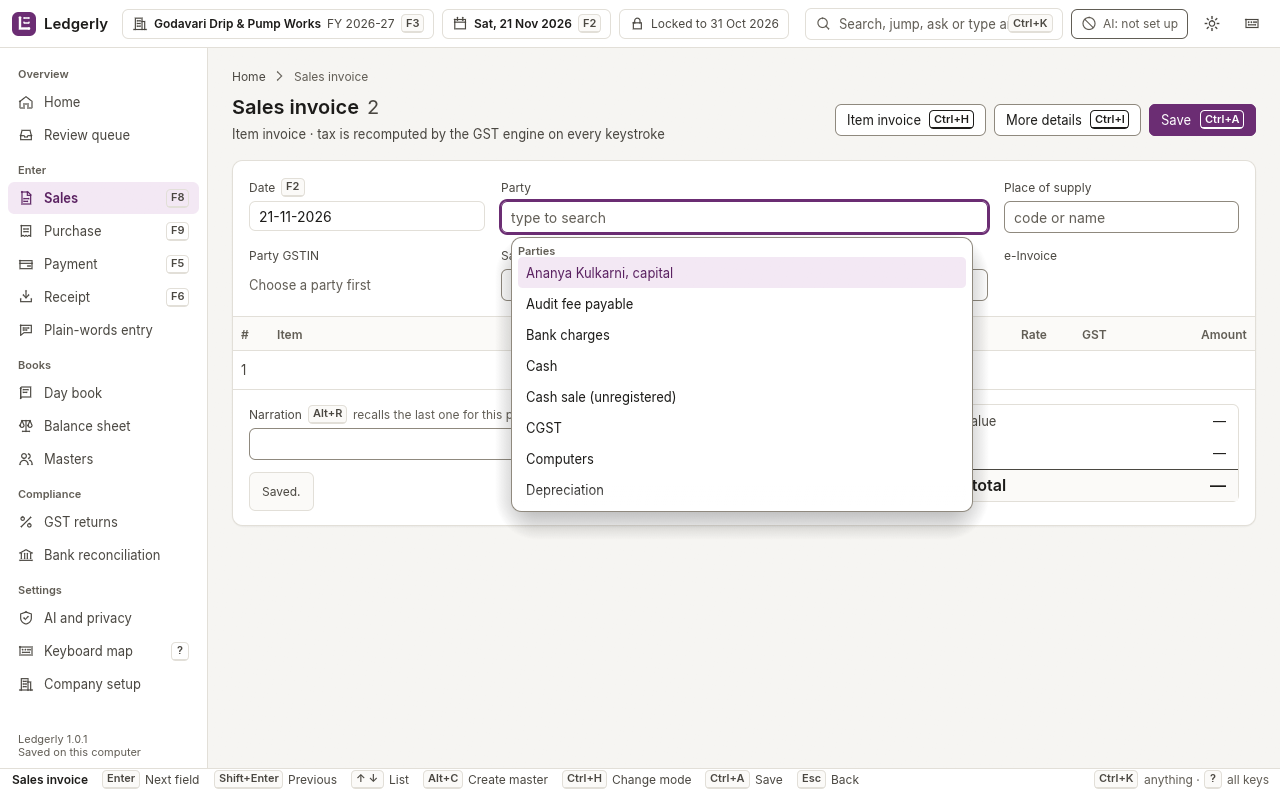
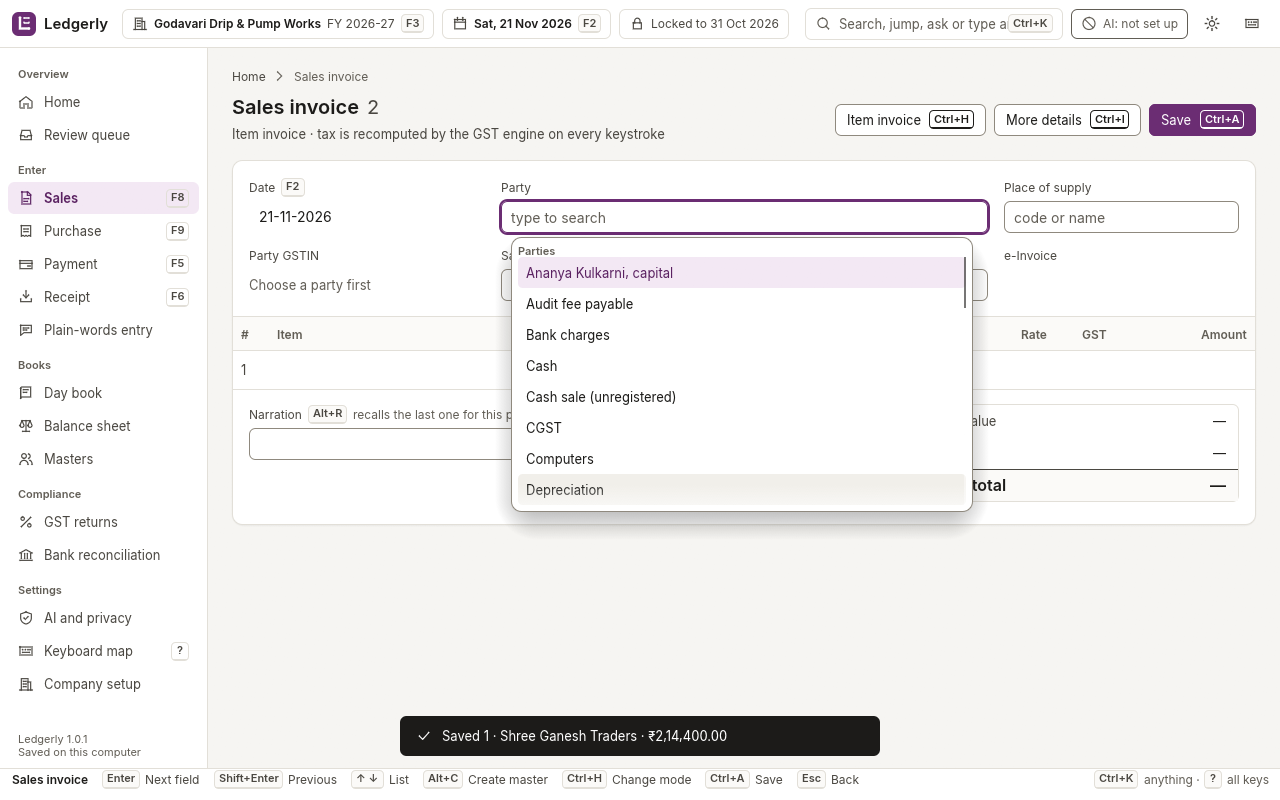
Clippy and doc gates clean; saved capture waits only as long as the toast shows it

Changed region(s): [[0.3125, 0.875, 0.6875, 0.9688], [0.1875, 0.5938, 0.25, 0.625]]

diff --git a/crates/ledgerly-app/src/screens/item_invoice/draw.rs b/crates/ledgerly-app/src/screens/item_invoice/draw.rs
@@ -236,9 +236,9 @@ fn info_note(ui: &mut Ui, lead: &str, bold: &str, rest: &str) {
             ui.set_width(width - 24.0 - 2.0);
             ui.horizontal_top(|ui| {
                 ui.spacing_mut().item_spacing.x = 10.0;
-                let (rect, _) =
+                let (slot, _) =
                     ui.allocate_exact_size(egui::vec2(16.0, 18.0), egui::Sense::hover());
-                let c = egui::pos2(rect.center().x, rect.top() + 9.0);
+                let c = egui::pos2(slot.center().x, slot.top() + 9.0);
                 ui.painter()
                     .circle_stroke(c, 7.0, egui::Stroke::new(1.3, t.text_2));
                 ui.painter().text(
@@ -428,7 +428,7 @@ fn list_caption(focus: Field) -> &'static str {
 
 /// The save question at the foot of the sheet (index.html `savebar`): a green bar with the
 /// question in bold, then Yes and No.
-fn save_bar(ui: &mut Ui, clicks: &mut Option<Click>, title: String) {
+fn save_bar(ui: &mut Ui, clicks: &mut Option<Click>, title: &str) {
     let t = tokens(ui);
     let width = ui.available_width() - 32.0;
     Frame::new()
@@ -449,7 +449,7 @@ fn save_bar(ui: &mut Ui, clicks: &mut Option<Click>, title: String) {
                 let mut job = egui::text::LayoutJob::default();
                 let line = crate::ui::line_height(crate::theme::TEXT_META);
                 job.append(
-                    &title,
+                    title,
                     0.0,
                     egui::TextFormat {
                         font_id: crate::ui::bold_font(ui, crate::theme::TEXT_META),
@@ -1059,7 +1059,7 @@ impl ItemInvoiceScreen {
         });
         self.shown.narration = narration;
         if self.confirming_save {
-            save_bar(ui, clicks, self.save_title());
+            save_bar(ui, clicks, &self.save_title());
         }
     }
 

diff --git a/crates/ledgerly-app/src/screens/item_invoice/mod.rs b/crates/ledgerly-app/src/screens/item_invoice/mod.rs
@@ -524,6 +524,10 @@ struct Toast {
 }
 
 /// The item invoice entry screen (card U5).
+#[expect(
+    clippy::struct_excessive_bools,
+    reason = "independent screen modes (focus pending, discard prompt, save prompt, bill panel); a state enum would not model them"
+)]
 pub struct ItemInvoiceScreen {
     type_name: String,
     /// Whether the item mode has stock items to pick.
@@ -900,7 +904,7 @@ impl ItemInvoiceScreen {
         self.confirming_save = false;
         match self.saveable(masters) {
             Ok(voucher) => {
-                self.save_info = self.save_summary(masters, &voucher);
+                self.save_info = Self::save_summary(masters, &voucher);
                 self.outbox = Some(voucher);
                 self.notice = Some(Notice::Info("Saving...".to_owned()));
             }
@@ -909,7 +913,7 @@ impl ItemInvoiceScreen {
     }
 
     /// The party's name and the engine's invoice total for the voucher about to be saved.
-    fn save_summary(&self, masters: &Masters, voucher: &Voucher) -> Option<(String, Paise)> {
+    fn save_summary(masters: &Masters, voucher: &Voucher) -> Option<(String, Paise)> {
         let party = voucher.party?;
         let name = masters.ledgers.get(&party)?.name.clone();
         let total = voucher

diff --git a/crates/ledgerly-api/tests/s9_invoice_bills.rs b/crates/ledgerly-api/tests/s9_invoice_bills.rs
@@ -549,7 +549,8 @@ fn the_next_voucher_number_follows_the_books() {
     let ty = vtype(BaseVoucherKind::Sales);
     let first = match api.next_voucher_number(ty, date!(2026 - 10 - 05)).unwrap() {
         Outcome::Value(Some(n)) => n,
-        other => panic!("{other:?}"),
+        Outcome::Value(None) => panic!("an automatic type has a next number"),
+        Outcome::Unsupported(u) => panic!("{u:?}"),
     };
     let mut v = item_sale(KA_BUYER, Some(29), 10, 1_000_000);
     let built = ok(api.invoice_gst(&v));
@@ -559,7 +560,8 @@ fn the_next_voucher_number_follows_the_books() {
     assert_eq!(posted.number.as_deref(), Some(first.as_str()));
     let second = match api.next_voucher_number(ty, date!(2026 - 10 - 05)).unwrap() {
         Outcome::Value(Some(n)) => n,
-        other => panic!("{other:?}"),
+        Outcome::Value(None) => panic!("an automatic type has a next number"),
+        Outcome::Unsupported(u) => panic!("{u:?}"),
     };
     assert_ne!(first, second);
 }

diff --git a/crates/ledgerly-app/examples/ui_snapshots.rs b/crates/ledgerly-app/examples/ui_snapshots.rs
@@ -672,7 +672,7 @@ const SETUP_SETTLE_FRAMES: u32 = 900;
 
 /// Frames the `sales-invoice.saved` shot waits after Ctrl+A: the post goes through the worker and
 /// the screen says "Saved." only when it answers (60 frames showed "Saving...").
-const SAVE_SETTLE_FRAMES: u32 = 900;
+const SAVE_SETTLE_FRAMES: u32 = 240;
 
 /// One thing the harness sends after a shot's setup: a key press or typed text (the company setup
 /// wizard's name and GSTIN fields need text).
@@ -829,7 +829,7 @@ fn ai_off_shot(state: &'static str, screen: &'static str) -> Shot {
 
 /// The mock's invoice head on Godavari: F8 opens an item invoice, `party` and `place` typed, Sales
 /// as the sales ledger and `order` as the buyer's order number, so the keyboard is on the first
-/// item (design/mock-v2/index.html INV_SEED, lines 1261-1269).
+/// item (design/mock-v2/index.html `INV_SEED`, lines 1261-1269).
 fn godavari_invoice(
     state: &'static str,
     party: &'static str,

diff --git a/crates/ledgerly-api/src/voucher_gst.rs b/crates/ledgerly-api/src/voucher_gst.rs
@@ -529,6 +529,10 @@ fn rounding_ledger(books: &Books) -> Option<LedgerId> {
 /// A party that is not bill-wise has none (and takes none). A bill-wise party with no typed
 /// references gets one New Ref for the whole value with the master's credit days. Typed references
 /// are resolved as [`PartyBill`] says.
+#[expect(
+    clippy::too_many_lines,
+    reason = "one pass over the typed references, with a refusal per rule; splitting it would scatter one rule"
+)]
 fn party_bills(
     books: &Books,
     party: LedgerId,
@@ -630,6 +634,10 @@ fn format_rupees(p: Paise) -> String {
 }
 
 /// Builds the lines and block of an item invoice from the engine's tax.
+#[expect(
+    clippy::too_many_lines,
+    reason = "one pass that builds the lines, the per-rate rows and the party bills from one breakup"
+)]
 fn build_invoice(
     books: &Books,
     v: &Voucher,

diff --git a/crates/ledgerly-app/src/screens/item_invoice/nav.rs b/crates/ledgerly-app/src/screens/item_invoice/nav.rs
@@ -330,7 +330,8 @@ impl ItemInvoiceScreen {
         }
         match BillRow::parse_kind(&row.kind_text) {
             Some(kind) => {
-                row.kind_text = BillRow::kind_label(kind).to_owned();
+                row.kind_text.clear();
+                row.kind_text.push_str(BillRow::kind_label(kind));
                 Step::Next
             }
             None => self.refuse("The type is New Ref, Agst Ref, Advance or On Account.".to_owned()),

diff --git a/crates/ledgerly-app/tests/s9_voucher_screens.rs b/crates/ledgerly-app/tests/s9_voucher_screens.rs
@@ -11,8 +11,8 @@
 
 use std::collections::BTreeMap;
 
+use ledgerly_app::Screen;
 use ledgerly_app::screens::voucher_entry::VoucherEntryScreen;
-use ledgerly_app::{AppCtx, Screen};
 use ledgerly_core::{
     Date, FinancialYear, GroupId, LedgerId, Outcome, Paise, SignedAmount, StateCode, VoucherTypeId,
 };

diff --git a/design/COMPARE.md b/design/COMPARE.md
@@ -20,8 +20,8 @@
 | hc | home.ai-off | 0.5450 |
 | hc | ai-settings.local | 0.5507 |
 | dark | home.default | 0.5545 |
-| hc | sales-invoice.saved | 0.5654 |
 | light | home.default | 0.5675 |
+| hc | sales-invoice.saved | 0.5693 |
 | hc | palette.default | 0.5708 |
 | hc | masters.ledgers | 0.5717 |
 | hc | gst.gstr1 | 0.5774 |
@@ -46,8 +46,8 @@
 | dark | bank.default | 0.6095 |
 | light | palette.entry | 0.6150 |
 | light | sales-invoice.default | 0.6161 |
-| dark | sales-invoice.saved | 0.6166 |
 | light | palette.ask | 0.6183 |
+| dark | sales-invoice.saved | 0.6183 |
 | hc | bank.brs | 0.6190 |
 | dark | ai-settings.cloud | 0.6192 |
 | hc | gst.gstr1-correction | 0.6205 |
@@ -96,8 +96,8 @@
 | dark | balance-sheet.provisional | 0.6675 |
 | dark | sales-invoice.b2c | 0.6685 |
 | light | palette.commands | 0.6782 |
-| light | sales-invoice.saved | 0.6814 |
 | light | ai-settings.off | 0.6850 |
+| light | sales-invoice.saved | 0.6861 |
 | dark | gst.gstr1-correction | 0.6863 |
 | dark | palette.commands | 0.6867 |
 | light | gst.gstr1-correction | 0.6879 |
@@ -371,18 +371,6 @@ SSIM 0.5545
 </tr>
 </table>
 
-## hc / sales-invoice.saved
-
-SSIM 0.5654
-
-<table>
-<tr><th>Mock</th><th>App</th></tr>
-<tr>
-<td><img src="mock-v2/captures/states/hc/sales-invoice.saved.webp" width="480" alt="mock hc sales-invoice.saved"></td>
-<td><img src="app-captures/hc/sales-invoice.saved.webp" width="480" alt="app hc sales-invoice.saved"></td>
-</tr>
-</table>
-
 ## light / home.default
 
 SSIM 0.5675
@@ -392,6 +380,18 @@ SSIM 0.5675
 <tr>
 <td><img src="mock-v2/captures/states/light/home.default.webp" width="480" alt="mock light home.default"></td>
 <td><img src="app-captures/light/home.default.webp" width="480" alt="app light home.default"></td>
+</tr>
+</table>
+
+## hc / sales-invoice.saved
+
+SSIM 0.5693
+
+<table>
+<tr><th>Mock</th><th>App</th></tr>
+<tr>
+<td><img src="mock-v2/captures/states/hc/sales-invoice.saved.webp" width="480" alt="mock hc sales-invoice.saved"></td>
+<td><img src="app-captures/hc/sales-invoice.saved.webp" width="480" alt="app hc sales-invoice.saved"></td>
 </tr>
 </table>
 
@@ -683,18 +683,6 @@ SSIM 0.6161
 </tr>
 </table>
 
-## dark / sales-invoice.saved
-
-SSIM 0.6166
-
-<table>
-<tr><th>Mock</th><th>App</th></tr>
-<tr>
-<td><img src="mock-v2/captures/states/dark/sales-invoice.saved.webp" width="480" alt="mock dark sales-invoice.saved"></td>
-<td><img src="app-captures/dark/sales-invoice.saved.webp" width="480" alt="app dark sales-invoice.saved"></td>
-</tr>
-</table>
-
 ## light / palette.ask
 
 SSIM 0.6183
@@ -704,6 +692,18 @@ SSIM 0.6183
 <tr>
 <td><img src="mock-v2/captures/states/light/palette.ask.webp" width="480" alt="mock light palette.ask"></td>
 <td><img src="app-captures/light/palette.ask.webp" width="480" alt="app light palette.ask"></td>
+</tr>
+</table>
+
+## dark / sales-invoice.saved
+
+SSIM 0.6183
+
+<table>
+<tr><th>Mock</th><th>App</th></tr>
+<tr>
+<td><img src="mock-v2/captures/states/dark/sales-invoice.saved.webp" width="480" alt="mock dark sales-invoice.saved"></td>
+<td><img src="app-captures/dark/sales-invoice.saved.webp" width="480" alt="app dark sales-invoice.saved"></td>
 </tr>
 </table>
 
@@ -1283,18 +1283,6 @@ SSIM 0.6782
 </tr>
 </table>
 
-## light / sales-invoice.saved
-
-SSIM 0.6814
-
-<table>
-<tr><th>Mock</th><th>App</th></tr>
-<tr>
-<td><img src="mock-v2/captures/states/light/sales-invoice.saved.webp" width="480" alt="mock light sales-invoice.saved"></td>
-<td><img src="app-captures/light/sales-invoice.saved.webp" width="480" alt="app light sales-invoice.saved"></td>
-</tr>
-</table>
-
 ## light / ai-settings.off
 
 SSIM 0.6850
@@ -1304,6 +1292,18 @@ SSIM 0.6850
 <tr>
 <td><img src="mock-v2/captures/states/light/ai-settings.off.webp" width="480" alt="mock light ai-settings.off"></td>
 <td><img src="app-captures/light/ai-settings.off.webp" width="480" alt="app light ai-settings.off"></td>
+</tr>
+</table>
+
+## light / sales-invoice.saved
+
+SSIM 0.6861
+
+<table>
+<tr><th>Mock</th><th>App</th></tr>
+<tr>
+<td><img src="mock-v2/captures/states/light/sales-invoice.saved.webp" width="480" alt="mock light sales-invoice.saved"></td>
+<td><img src="app-captures/light/sales-invoice.saved.webp" width="480" alt="app light sales-invoice.saved"></td>
 </tr>
 </table>
 

diff --git a/design/PARITY-GAPS.md b/design/PARITY-GAPS.md
@@ -405,7 +405,9 @@ the selected one.
 - **gap: the empty tax box shows dashes**, not 0.00, until the engine has answered.
 - **gap: the rate shows as typed** ("3850"), not "3,850.00": the field is text, and rate
   parsing stays strict (a pinned test refuses "1,000").
-- **gap: the party and place are not carried over after a save.**
+- **gap: after a save the party and place are not carried over,** and the party list opens over
+  the empty form (the mock keeps the party and shows no list); the toast itself matches except
+  for its Undo.
 - **needs a decision: the party list offers every ledger.** The Customer and Supplier fields list
   all ledgers (Capital, Output CGST, Sales, ...). TallyPrime's pages say what to pick there:
   "Select Cash or Bank for cash sales and the party name for credit sales"
